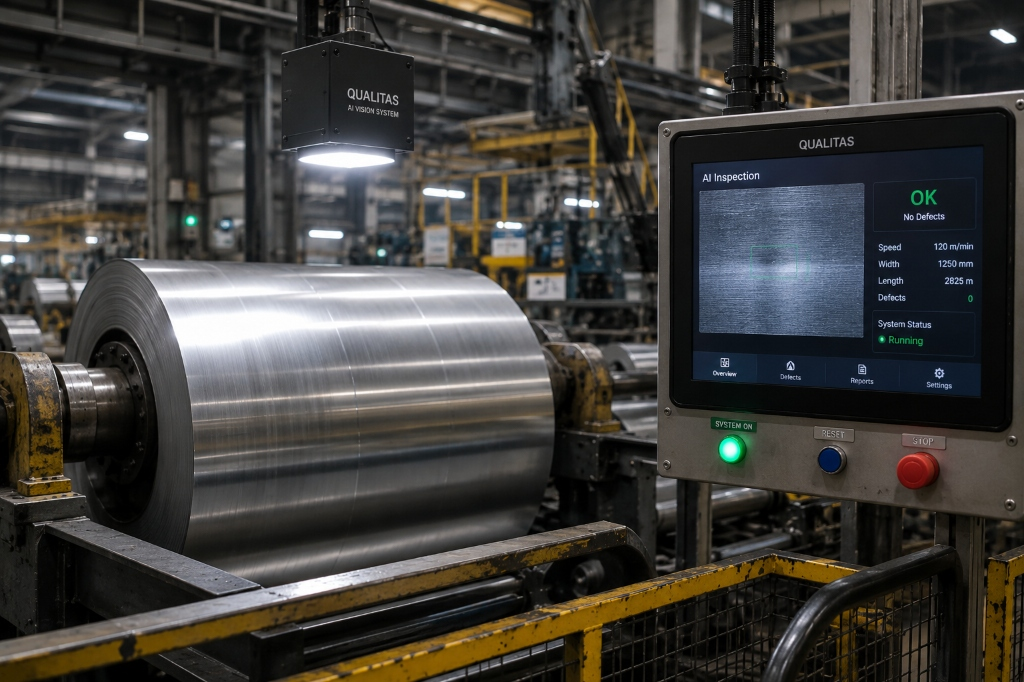
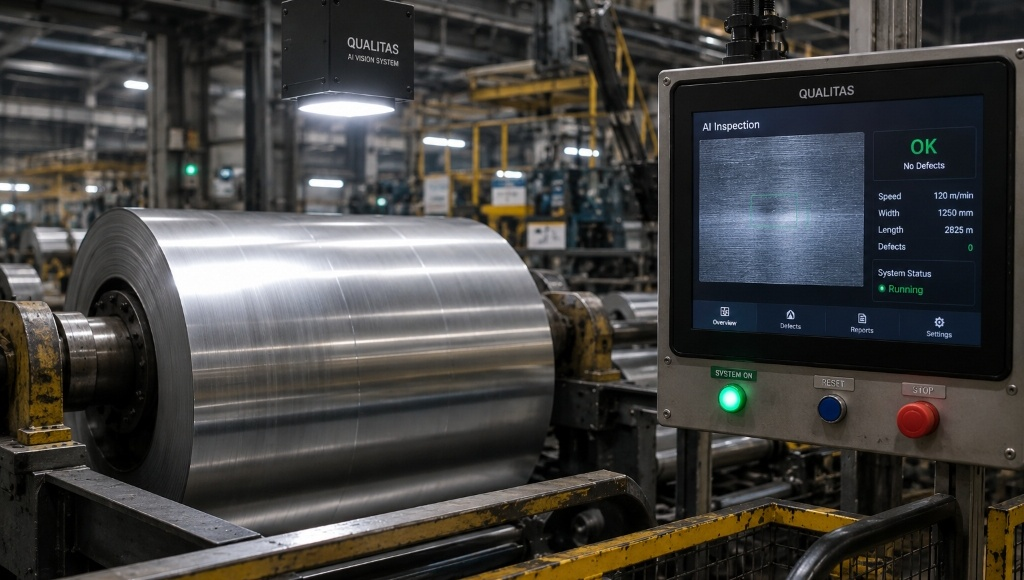
Add files via upload

diff --git a/app.py b/app.py
@@ -283,11 +283,11 @@ img2_p = Path("header_steel_line.jpg")
 col_img1, col_img2 = st.columns(2)
 with col_img1:
     if img1_p.exists():
-        st.image(str(img1_p), caption="Optical Coiling & Strip Quality Inspection", use_container_width=True)
+        st.image(str(img1_p), use_container_width=True)
 
 with col_img2:
     if img2_p.exists():
-        st.image(str(img2_p), caption="Real-Time Micro-Defect Localization & Tracking", use_container_width=True)
+        st.image(str(img2_p), use_container_width=True)
 
 st.markdown("""
 <div class="enterprise-banner">
